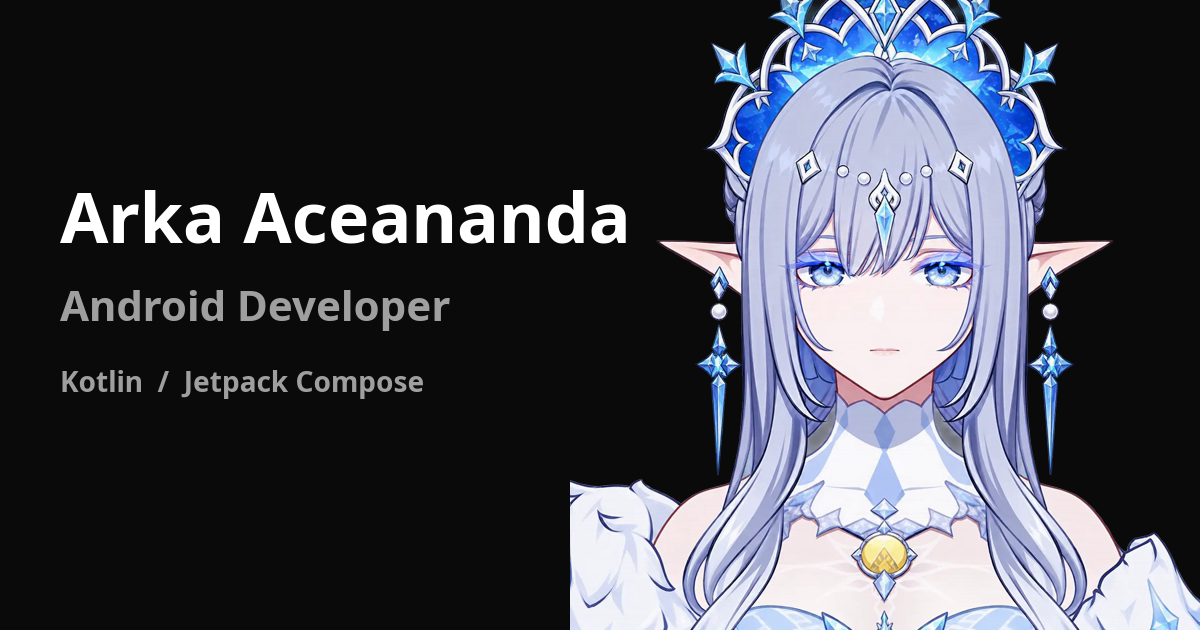
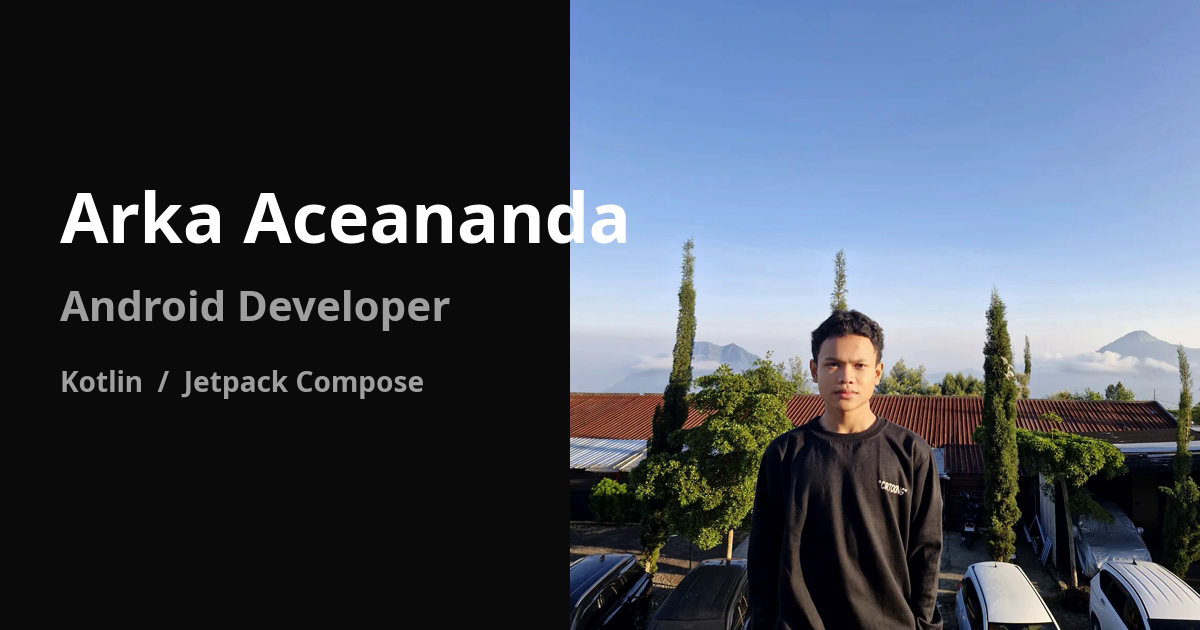
chore: update profile assets and intro card details

diff --git a/src/components/islands/IntroCard.tsx b/src/components/islands/IntroCard.tsx
@@ -3,11 +3,11 @@ import ProfileCard from "@/components/ProfileCard";
 export default function IntroCard() {
   return (
     <ProfileCard
-      avatarUrl="/tsaritsa-icon.webp"
+      avatarUrl="/avatar.webp"
       name="Arka Aceananda"
       title="Android Developer"
-      handle="arkaaceananda"
-      status="Kotlin · Jetpack Compose"
+      handle=""
+      status="Junior Developer"
       statusColor="#4ade80"
       contactText="Contact"
       onContactClick={() => {

diff --git a/src/components/ProfileCard.tsx b/src/components/ProfileCard.tsx
@@ -166,7 +166,8 @@ const PHOTO_STYLE: CSSProperties = {
   inset: 'calc(var(--pc-parallax) * -1)',
   width: 'calc(100% + var(--pc-parallax) * 2)',
   height: 'calc(100% + var(--pc-parallax) * 2)',
-  transform: 'translate3d(var(--pc-shift-x), var(--pc-shift-y), 0)'
+  objectPosition: '70% bottom',
+  transform: 'translate3d(calc(var(--pc-shift-x) + 10%), var(--pc-shift-y), 0) scale(1.22)'
 };
 
 const SCRIM_STYLE: CSSProperties = {

diff --git a/CHANGELOG.md b/CHANGELOG.md
@@ -5,6 +5,16 @@ All notable changes to this project will be documented in this file.
 The format is based on [Keep a Changelog](https://keepachangelog.com/en/1.1.0/),
 and this project adheres to [Semantic Versioning](https://semver.org/spec/v2.0.0.html).
 
+## [0.11.1] - 2026-11-27
+
+### Changed
+
+- Replaced the profile photo with `avatar.webp` (1200x1600, 180 KB); regenerated favicon and Open Graph image from it.
+- Adjusted intro card framing so the subject sits further right, removed the redundant handle, and changed the status to "Junior Developer".
+- Projects section description now covers mobile, web, and CLI work instead of Android only.
+
+[0.11.1]: https://github.com/arkaceananda/portfolio/releases/tag/v0.11.1
+
 ## [0.11.0] - 2026-11-27
 
 ### Added
